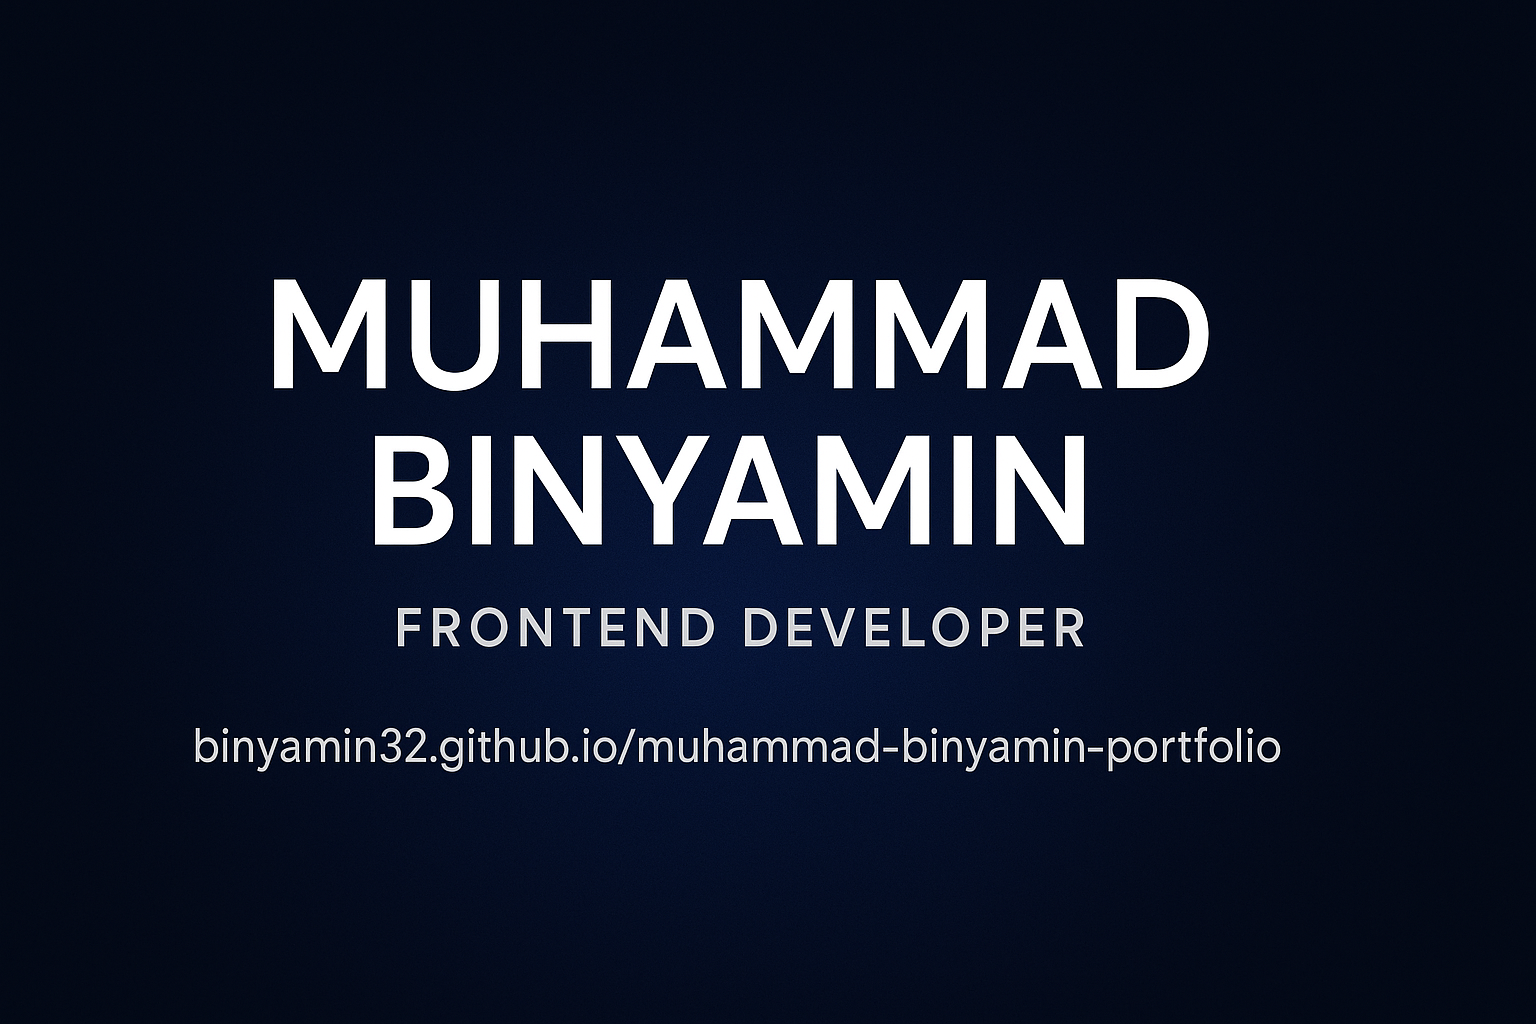
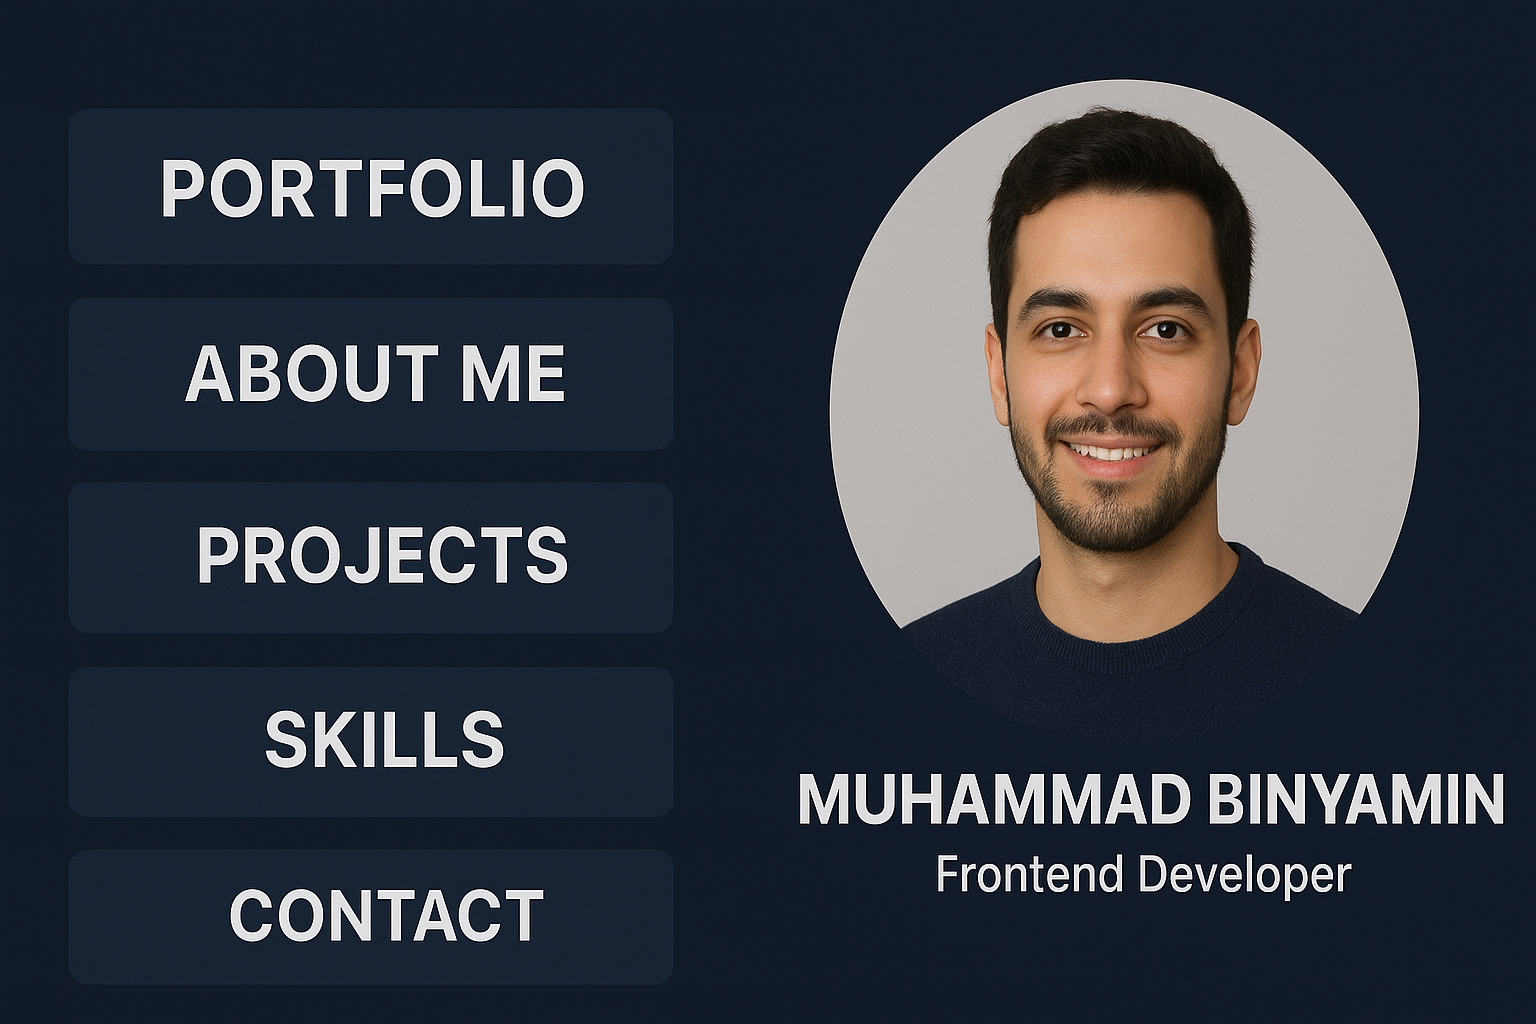
Added Monetag script

diff --git a/dist/index.html b/dist/index.html
@@ -41,7 +41,7 @@
     />
 
     <!-- Monetag Verification -->
-    <meta name="monetag" content="960535164f9f9101958f8142ca9b02a1" />
+    <meta name="monetag" content="6fc527cf38f12e55681e12eefec7870e">
 
     <!-- Favicon -->
     <link
